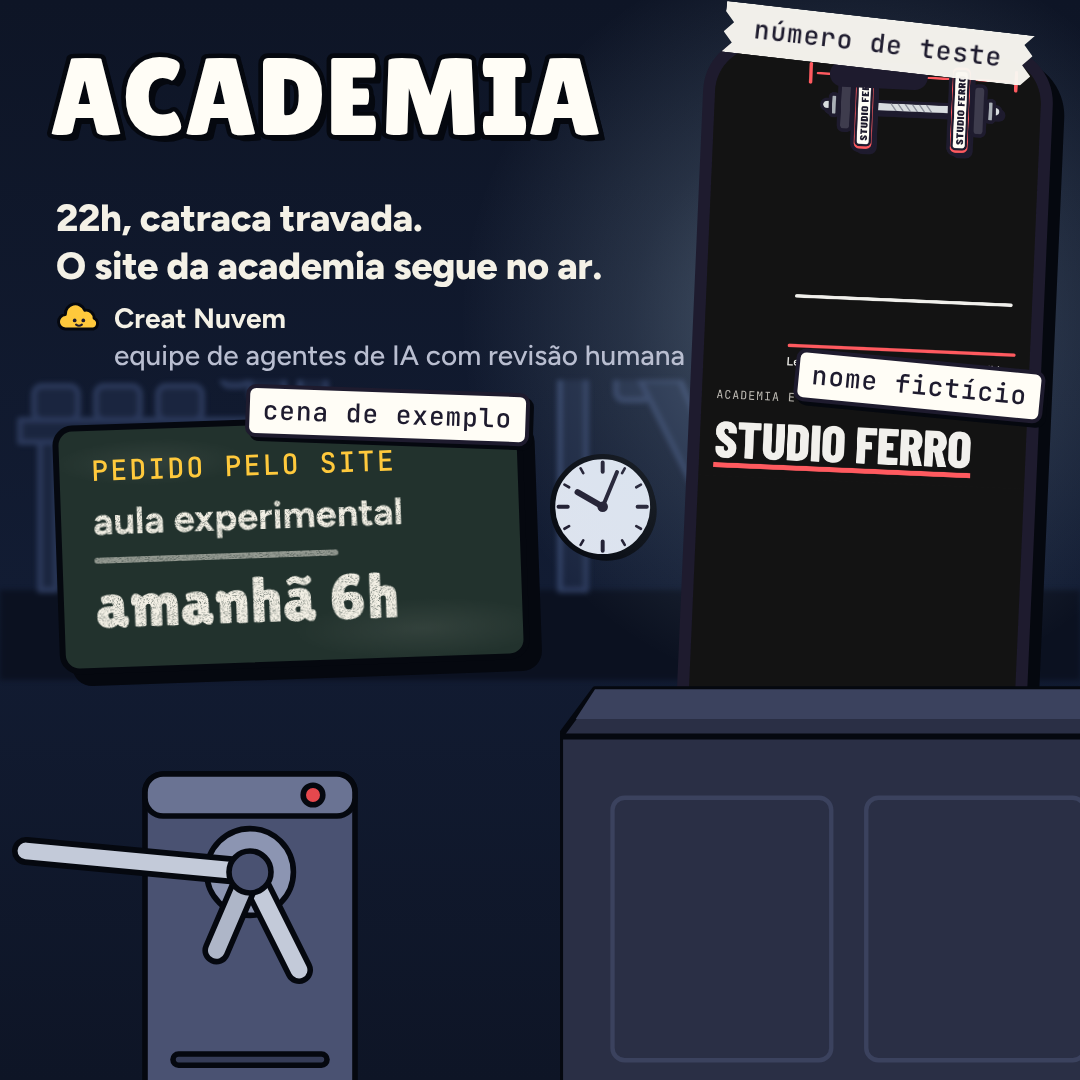
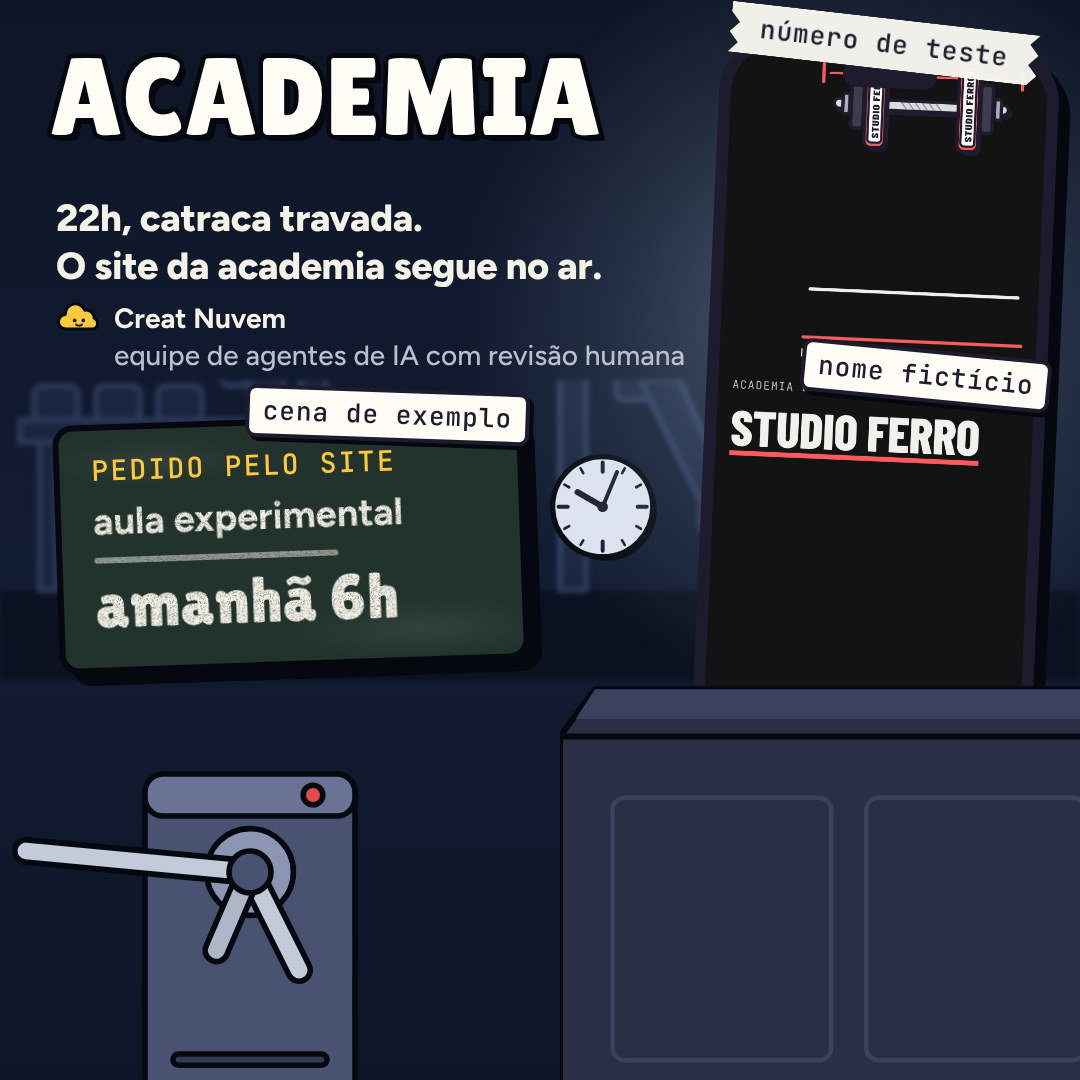
consciencia: regras permanentes do dono trazidas da operação anterior
Ponta a ponta, resolver sem devolver problema, honestidade, Conselho do Diretor,
arte 10 de 10, validação tripla de anúncio, portão de áudio, funil canônico,
verba só em produto, sem virada de plano, estruturas separadas.

Claude-Session: https://claude.ai/code/session_01LA2wrNSu89usjU61B4iFAp

Changed region(s): [[0.6111, 0.0, 1.0, 0.6417]]

diff --git a/projetos/creat-nuvem/marketing/trafego/estaticos/ganchos-g6-esmalteria.html b/projetos/creat-nuvem/marketing/trafego/estaticos/ganchos-g6-esmalteria.html
@@ -1,0 +1,85 @@
+<!doctype html><html lang="pt-BR"><head><meta charset="utf-8"><meta name="viewport" content="width=device-width,initial-scale=1">
+<link rel="preconnect" href="https://fonts.googleapis.com"><link rel="preconnect" href="https://fonts.gstatic.com" crossorigin>
+<link rel="stylesheet" href="https://fonts.googleapis.com/css2?family=Figtree:wght@400;500;600;700;800&family=JetBrains+Mono:wght@500&family=Lilita+One&display=swap">
+<link rel="stylesheet" href="ganchos.css">
+<title>G6 esmalteria</title>
+<style>
+/* G6 · ESMALTERIA · o celular é o protagonista, nítido, encostado no porta-esmaltes.
+   Ao fundo, bem desfocada, a mão da manicure com o pincel sobre a mão da cliente.
+   Composição em profundidade (foco raso), diferente das outras três. */
+.peca{background:linear-gradient(180deg,#CDEBFF 0%,#CDEBFF 46%,#E6B67B 46%,#D9A867 100%)}
+#fundo{filter:blur(16px)}
+.cel{z-index:2}.cartao{z-index:4}#porta-esmaltes{z-index:3}
+.cartao .nome{display:flex;align-items:center;gap:14px;flex-wrap:wrap}
+.cartao .nome .selo{position:static;box-shadow:3px 3px 0 #0E1714;transform:rotate(-2deg)}
+.cartao .linha-c{display:flex;align-items:baseline;justify-content:space-between;gap:20px;margin-top:6px}
+.cartao .linha-c .c2{margin-top:0}
+/* 9:16 */
+.f9 #fundo{left:-40px;top:560px;width:1160px;height:760px}
+.f9 .nicho{left:65px;top:282px;--t:160px}
+.f9 .linhas{left:65px;top:470px}
+.f9 .linha{--l:46px}
+.f9 .cel{left:268px;top:640px;width:500px;height:1040px;transform:rotate(-5deg)}
+.f9 .cartao{left:96px;top:978px;width:900px;transform:rotate(1.5deg)}
+.f9 #porta-esmaltes{left:0;top:1252px;width:1080px}
+/* 1:1 */
+.f1 .peca{background:linear-gradient(180deg,#CDEBFF 0%,#CDEBFF 44%,#E6B67B 44%,#D9A867 100%)}
+.f1 #fundo{left:120px;top:250px;width:1000px;height:420px}
+.f1 .nicho{left:50px;top:40px;--t:118px}
+.f1 .linhas{left:56px;top:178px}
+.f1 .linha{--l:36px}
+.f1 .cel{left:654px;top:64px;width:360px;height:860px;transform:rotate(-5deg)}
+.f1 .cartao{left:250px;top:336px;width:770px;transform:rotate(1.5deg)}
+.f1 #porta-esmaltes{left:0;top:552px;width:1080px}
+</style></head><body>
+<svg width="0" height="0" style="position:absolute" aria-hidden="true"><filter id="giz" x="-5%" y="-20%" width="110%" height="140%"><feTurbulence type="fractalNoise" baseFrequency="1.1" numOctaves="2" seed="7" result="r"/><feColorMatrix in="r" type="matrix" values="0 0 0 0 0  0 0 0 0 0  0 0 0 0 0  0 0 0 -2.2 2.1" result="g"/><feComposite in="SourceGraphic" in2="g" operator="in"/></filter></svg>
+<div class="peca" id="peca">
+  <!-- fundo desfocado: toalha, mão da cliente, mão da manicure com o pincel -->
+  <svg class="cena" id="fundo" viewBox="0 0 1160 760" preserveAspectRatio="xMidYMid slice" aria-hidden="true">
+    <rect x="60" y="300" width="1040" height="300" rx="30" fill="#FFFDF6"/>
+    <path d="M520 420 C600 380 760 380 860 410 L1000 430 C1040 440 1040 480 1000 490 L860 500 C760 520 620 520 540 490 Z" fill="#D9A07A"/>
+    <g fill="#C98B62"><rect x="860" y="404" width="120" height="24" rx="12"/><rect x="860" y="436" width="140" height="24" rx="12"/><rect x="860" y="468" width="130" height="24" rx="12"/></g>
+    <g fill="#A8124A"><rect x="958" y="404" width="22" height="24" rx="8"/><rect x="978" y="436" width="22" height="24" rx="8"/></g>
+    <path d="M820 180 C900 160 980 200 1040 260 L1120 300 L1120 380 L1000 360 C930 330 860 300 820 260 Z" fill="#B97A55"/>
+    <path d="M760 250 L940 350" stroke="#1E1B2E" stroke-width="16" stroke-linecap="round"/><path d="M930 344 l26 14" stroke="#A8124A" stroke-width="14" stroke-linecap="round"/>
+    <rect x="160" y="200" width="160" height="200" rx="26" fill="#A8124A"/><rect x="190" y="130" width="100" height="80" rx="14" fill="#1E1B2E"/>
+  </svg>
+
+  <h1 class="nicho" data-fit="950" data-fit1="560" data-min="80">ESMALTERIA</h1>
+  <div class="linhas">
+    <span class="linha" data-fit="950" data-fit1="560">Com o pincel na mão, ninguém digita.</span>
+    <span class="linha" data-fit="950" data-fit1="560">O pedido chega escrito.</span>
+  </div>
+
+  <div class="cel">
+    <div class="tela" style="background:#FFFFFF" data-print="../saida/prints-ganchos/esmalteria-topo.png" data-de="700" data-ate="1580"></div>
+    <span class="fita" style="left:24px;top:-26px;transform:rotate(-7deg)">número de teste</span>
+  </div>
+
+  <div class="cartao">
+    <span class="selo" style="left:-16px;top:-34px;transform:rotate(-3deg)">cena de exemplo</span>
+    <span class="rot">Pedido pelo site</span>
+    <span class="nome"><span class="c1">Esmalteria Lírio</span><span class="selo">nome fictício</span></span>
+    <span class="linha-c"><span class="c1">encaixe</span><span class="c2">sábado 9h</span></span>
+  </div>
+
+  <!-- porta-esmaltes em degraus, vidros sem rótulo -->
+  <svg class="cena" id="porta-esmaltes" viewBox="0 0 1080 680" aria-hidden="true" style="overflow:visible">
+    <defs>
+      <g id="vidro"><rect x="-22" y="-92" width="44" height="46" rx="8" fill="#1E1B2E"/><rect x="-36" y="-50" width="72" height="80" rx="18" stroke="#1E1B2E" stroke-width="6"/><rect x="-24" y="-40" width="8" height="40" rx="4" fill="#FFFDF6" opacity=".7"/></g>
+    </defs>
+    <g stroke="#1E1B2E" stroke-width="7" stroke-linejoin="round">
+      <rect x="-10" y="40" width="1100" height="700" fill="#B98149"/><path d="M-10 250 H1100 M-10 460 H1100" stroke="#9A6438" stroke-width="5"/>
+      <rect x="-10" y="120" width="1100" height="40" fill="#E6B67B"/><rect x="-10" y="160" width="1100" height="60" fill="#D39A5B"/>
+      <rect x="-10" y="330" width="1100" height="40" fill="#E6B67B"/><rect x="-10" y="370" width="1100" height="60" fill="#D39A5B"/>
+      <rect x="-10" y="540" width="1100" height="40" fill="#E6B67B"/><rect x="-10" y="580" width="1100" height="120" fill="#D39A5B"/>
+    </g>
+    <g>
+      <use href="#vidro" x="70" y="120" fill="#A8124A"/><use href="#vidro" x="170" y="120" fill="#F2B8B5"/><use href="#vidro" x="270" y="120" fill="#7A3E9D"/><use href="#vidro" x="370" y="120" fill="#E86A7A"/><use href="#vidro" x="470" y="120" fill="#F4A340"/><use href="#vidro" x="570" y="120" fill="#2F6FB3"/><use href="#vidro" x="670" y="120" fill="#E9E1D6"/><use href="#vidro" x="770" y="120" fill="#3A8F6B"/><use href="#vidro" x="870" y="120" fill="#C2185B"/><use href="#vidro" x="970" y="120" fill="#FFC9D4"/>
+      <use href="#vidro" x="20" y="330" fill="#E86A7A"/><use href="#vidro" x="120" y="330" fill="#1E1B2E"/><use href="#vidro" x="220" y="330" fill="#F4A340"/><use href="#vidro" x="320" y="330" fill="#A8124A"/><use href="#vidro" x="420" y="330" fill="#9CC9E8"/><use href="#vidro" x="520" y="330" fill="#F2B8B5"/><use href="#vidro" x="620" y="330" fill="#7A3E9D"/><use href="#vidro" x="720" y="330" fill="#E9E1D6"/><use href="#vidro" x="820" y="330" fill="#C2185B"/><use href="#vidro" x="920" y="330" fill="#3A8F6B"/><use href="#vidro" x="1020" y="330" fill="#F4A340"/>
+      <use href="#vidro" x="70" y="540" fill="#2F6FB3"/><use href="#vidro" x="170" y="540" fill="#FFC9D4"/><use href="#vidro" x="270" y="540" fill="#A8124A"/><use href="#vidro" x="370" y="540" fill="#3A8F6B"/><use href="#vidro" x="470" y="540" fill="#E86A7A"/><use href="#vidro" x="570" y="540" fill="#F4A340"/><use href="#vidro" x="670" y="540" fill="#7A3E9D"/><use href="#vidro" x="770" y="540" fill="#F2B8B5"/><use href="#vidro" x="870" y="540" fill="#1E1B2E"/><use href="#vidro" x="970" y="540" fill="#9CC9E8"/>
+    </g>
+  </svg>
+  <div class="guia"></div>
+</div>
+<script src="ganchos.js"></script></body></html>

diff --git a/projetos/creat-nuvem/marketing/trafego/estaticos/ganchos-g5-academia.html b/projetos/creat-nuvem/marketing/trafego/estaticos/ganchos-g5-academia.html
@@ -34,7 +34,7 @@
 .f1 #sala{left:0;top:380px;width:1080px;height:300px}
 .f1 #relogio{left:548px;top:452px;width:112px}
 .f1 #luz{left:460px;top:-60px;width:760px;height:760px}
-.f1 .cel{left:688px;top:40px;width:350px;height:800px;transform:rotate(2.5deg)}
+.f1 .cel{left:704px;top:40px;width:340px;height:800px;transform:rotate(2.5deg)}
 .f1 .cartao{left:56px;top:418px;width:470px;transform:rotate(-2deg)}
 .f1 #balcao{left:560px;top:684px;width:560px;height:420px}
 .f1 #catraca{left:-30px;top:690px;width:560px}

diff --git a/projetos/creat-nuvem/marketing/trafego/estaticos/ganchos.css b/projetos/creat-nuvem/marketing/trafego/estaticos/ganchos.css
@@ -69,4 +69,4 @@ body{font-family:var(--f-texto);color:var(--tinta);-webkit-font-smoothing:antial
 
 /* guia da área segura (só com --guia) */
 .guia{position:absolute;display:none;left:65px;right:65px;top:269px;height:979px;outline:3px dashed #e33;z-index:9}
-.com-guia.f9 .guia{display:block}
+.f9 .com-guia .guia{display:block}

diff --git a/.claude/skills/consciencia/SKILL.md b/.claude/skills/consciencia/SKILL.md
@@ -38,6 +38,21 @@ A Creat **não vende presa à região nem ao orgânico**. O crescimento vem de *
 5. **Escala é método, não volume.** Mercado e nicho escolhidos por estudo com fonte; criativo em vídeo curto que mostra o gesto do produto; persuasão com base em evidência (posse, prova, redução de risco, clareza de preço), sempre dentro das políticas da Meta e do CDC; orçamento que sobe por gatilho numérico. O plano vigente está em `projetos/creat-nuvem/marketing/trafego/EXPANSAO.md`.
 6. **Pergunta de corte em toda tarefa:** *isto funciona para um dono de salão de outra cidade que chegou por um anúncio há 30 segundos?* Se depende de ele conhecer a Creat, de seguir o perfil ou de alguém explicar no WhatsApp, refaça.
 
+## Regras permanentes do dono (trazidas da operação anterior, 10/11/2026)
+O dono operou quatro semanas com outro agente, gastou em anúncio e não vendeu. Ele mandou trazer as regras dele para cá e seguir. Valem para toda a casa, em todo produto.
+
+1. **Ponta a ponta, sempre nesta ordem:** verificar o que está errado, o que está bom, o que tem de melhorar, o que tem de otimizar e o que tem de tirar. Quem recebe um trecho responde por cada detalhe dele. O padrão é "extremamente bem feito, bem executado e lindo"; diretor não deixa passar "nem um grão de areia".
+2. **Resolver, não devolver problema.** Não mandar o dono a painel nenhum. Quando um clique dele é inevitável: link direto e um print mostrando onde clicar. "Não volte aqui sem resolver."
+3. **Honestidade total.** Separar o que foi verificado do que não foi. Não inventar dado. Onde discordar do dono, discordar com evidência. Nada de otimismo sem número.
+4. **Como falar com ele:** português, blocos curtos, densos e escaneáveis, com número. Todo fechamento de rodada traz um bloco **Conselho do Diretor**. Nunca citar valor de saldo da conta de anúncios; se a cobrança falhar, dizer "falha de cobrança".
+5. **Arte no padrão 10 de 10** e **validação tripla em todo anúncio** antes de subir: idioma, moeda e link (o link abre a página certa, do nicho certo, com a medição certa).
+6. **Portão de áudio:** nenhum criativo com fala sobe sem a transcrição comparada palavra a palavra com o roteiro, com preço e moeda conferidos no áudio. Voz em português só com locução brasileira nativa.
+7. **Funil canônico:** um destino por produto; redirecionamento só no servidor; nunca arquivo de CDN como destino de anúncio; trocou a página, troca o link do anúncio no mesmo ato; verificar antes e depois de publicar; rota que não existe devolve 404.
+8. **Verba só em produto.** Nunca anúncio para ganhar seguidor, alcance ou visualização de Reel.
+9. **Não virar o plano a cada 24 horas.** Preço, página e produto só mudam depois de uma amostra mínima definida antes. Correção de erro e de qualidade não é virada de plano e não espera.
+10. **Desligar o que não muda decisão.** Relatório, vigia ou painel que ninguém usa para decidir sai do ar.
+11. **Estruturas separadas.** A operação antiga (kits e a frente em inglês) é outra estrutura, cuidada em outra conversa. Daqui só se aproveitam as lições e os dados; nada do Porta Aberta aparece lá e nada de lá aparece aqui.
+
 ## Governança dos modos
 O dono não escolhe modelo, esforço nem orquestração: a casa escolhe por tarefa (ver CLAUDE.md, "Modo de trabalho"). Trabalho com mais de uma etapa vai para a agência por autorização permanente; conversa e ajuste pequeno rodam direto.
 
